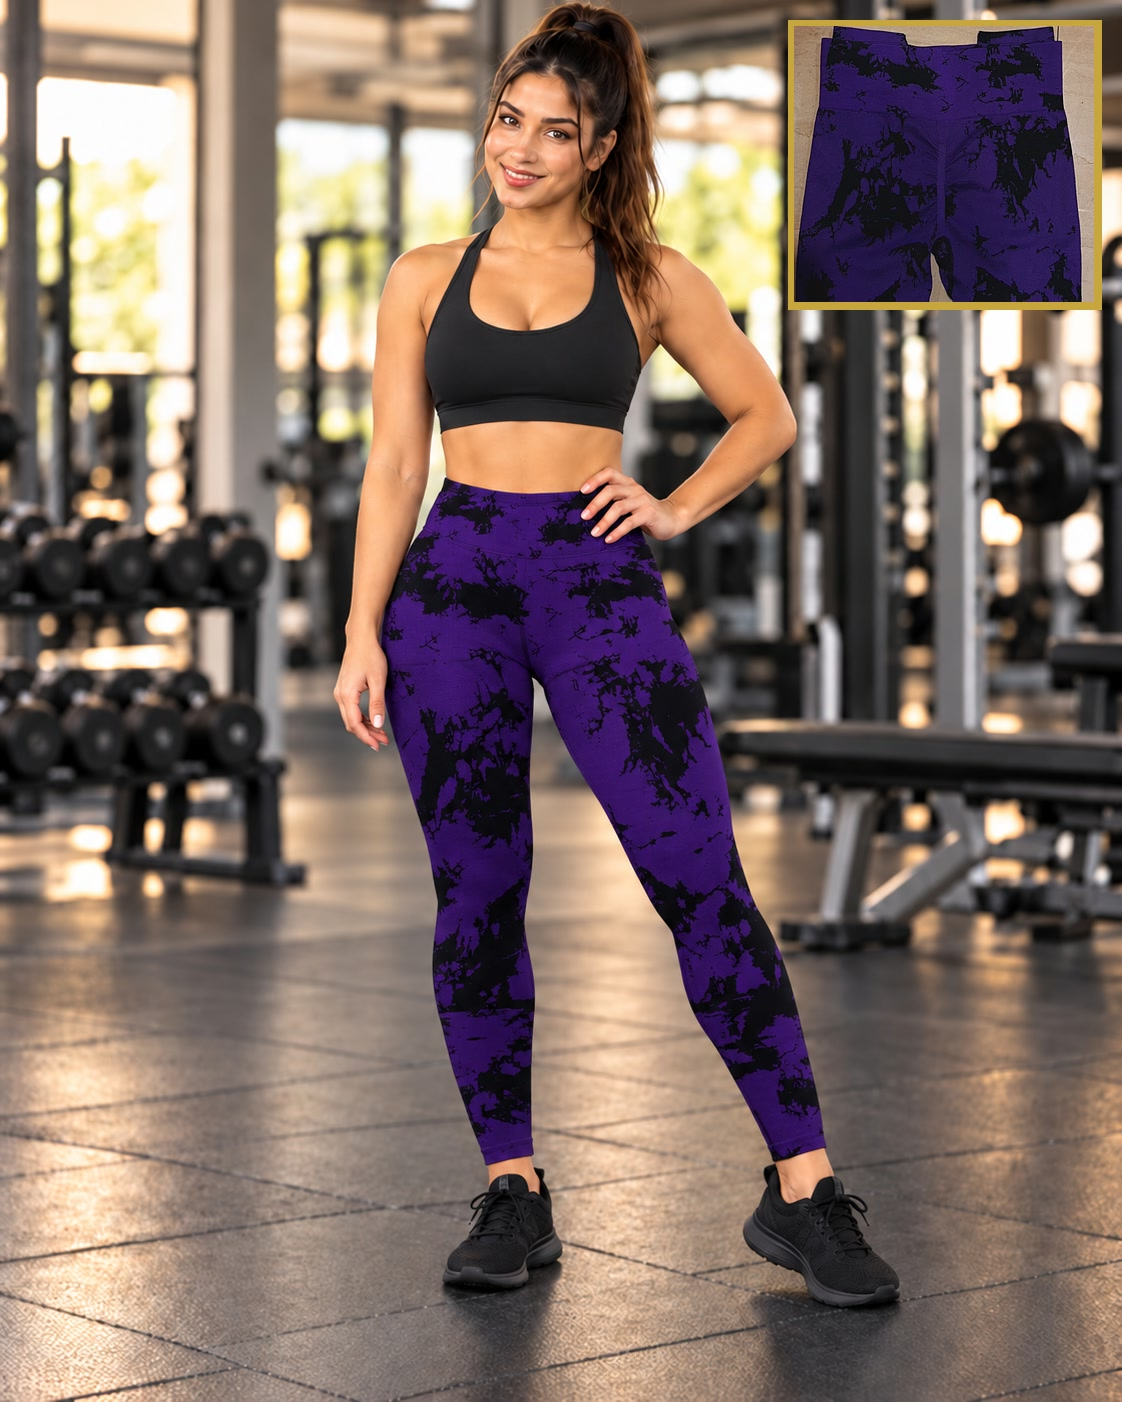
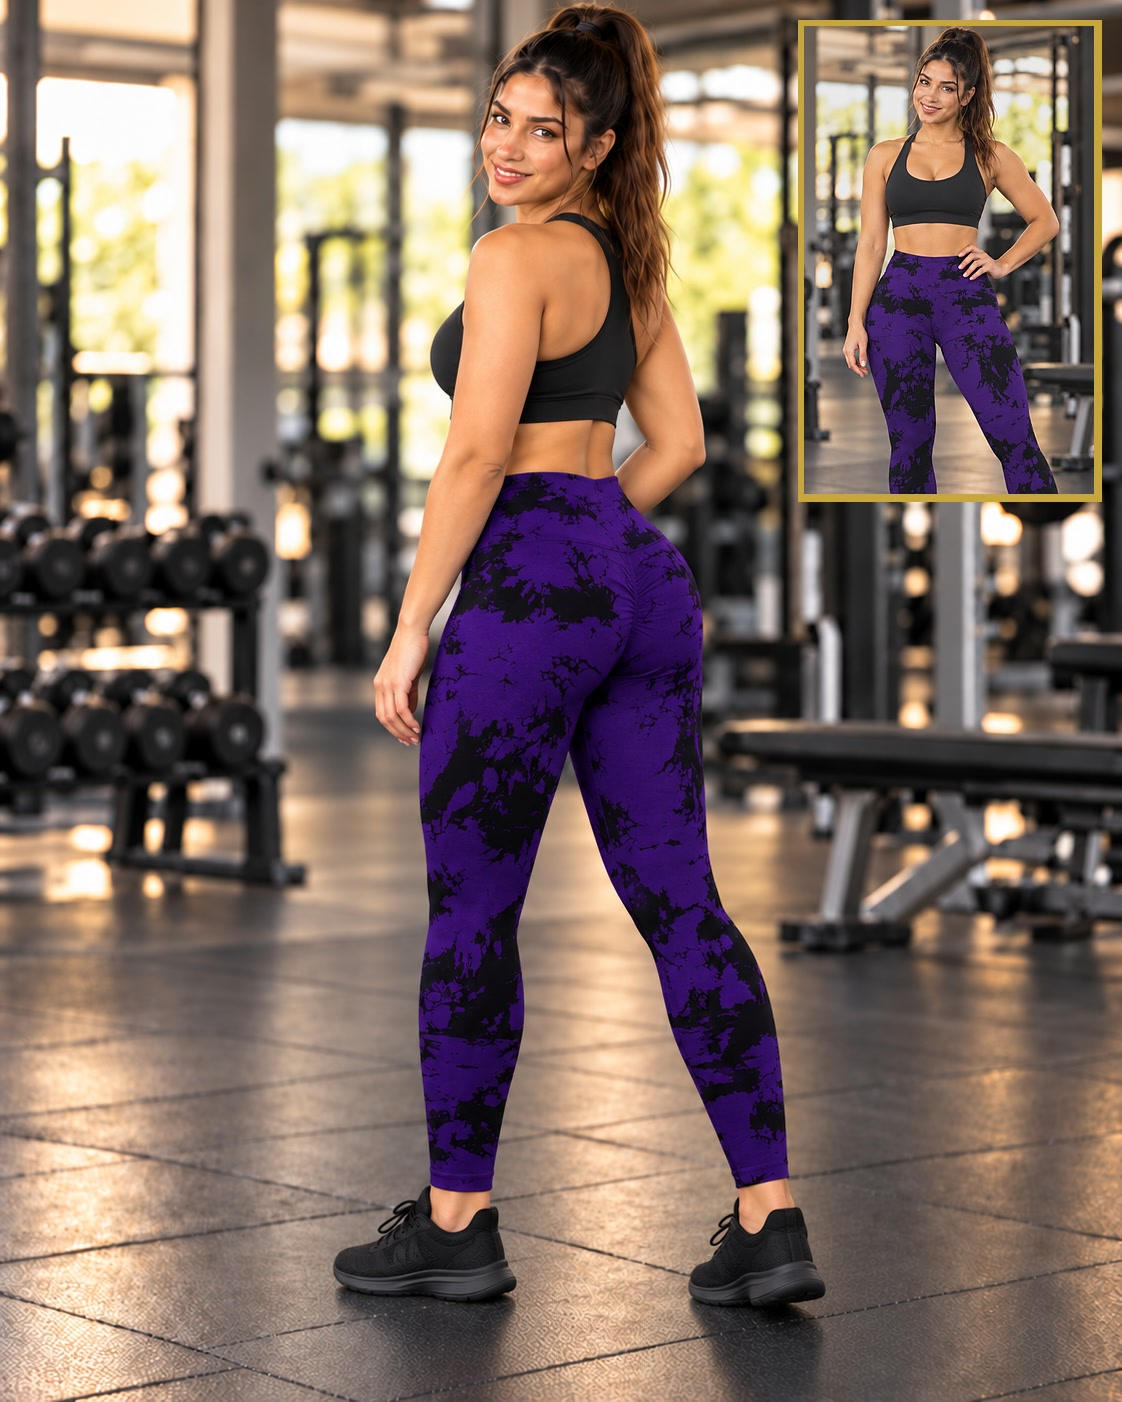
Tienda: calza morada con modelo de espaldas y cuadro de frente
Claude-Session: https://claude.ai/code/session_013ZgZPSRHEDhMsqmx8Km842

diff --git a/tienda.html b/tienda.html
@@ -221,7 +221,7 @@ function hoyISO(){ return new Intl.DateTimeFormat("en-CA", { timeZone:"America/S
 function ahoraTxt(){ var f = new Intl.DateTimeFormat("sv-SE", { timeZone:"America/Santiago", year:"numeric", month:"2-digit", day:"2-digit", hour:"2-digit", minute:"2-digit" }).format(new Date()); return f.replace("T", " ").slice(0, 16); }
 function normTxt(s){ return String(s || "").toUpperCase().normalize("NFD").replace(/[̀-ͯ]/g, ""); }
 /* Al cambiar una foto en img/tienda/ (mismo nombre), subir FOTO_V para que los teléfonos no muestren la antigua. */
-var FOTO_V = "26";
+var FOTO_V = "27";
 function fotoUrl(f){ return f ? f + (f.indexOf("?") < 0 ? "?v=" + FOTO_V : "") : ""; }
 function iconoCat(c){ var x = CATS.filter(function(k){ return k[0] === c; })[0]; return x ? x[1] : "📦"; }
 function toast(t, ms){ var el = $("toast"); el.textContent = t; el.style.display = "block"; clearTimeout(toast.t); toast.t = setTimeout(function(){ el.style.display = "none"; }, ms || 2600); }
@@ -303,7 +303,7 @@ setInterval(function(){ if(pend.length) enviarPendientes(); }, 30000);
    el computador"): los datos se vuelven a pedir a la planilla cada 30 s mientras la página está a la vista (sin una ficha
    abierta), y cada minuto se revisa tienda-version.txt: si hay una versión nueva de la página, se recarga sola.
    Cada vez que se cambie tienda.html, subir TIENDA_VERSION y tienda-version.txt juntos (AAAAMMDDNN). */
-var TIENDA_VERSION = "2026102518";
+var TIENDA_VERSION = "2026102519";
 setInterval(function(){ if(clave && !document.hidden && $("velo").hidden && !$("app").hidden) enviarPendientes().then(function(){ cargar(true); }); }, 30000);
 function revisarVersion(){
  fetch("tienda-version.txt?t=" + Date.now(), { cache:"no-store" }).then(function(r){ return r.ok ? r.text() : ""; }).then(function(v){

diff --git a/CLAUDE.md b/CLAUDE.md
@@ -1533,7 +1533,7 @@ Versión 23). Celular y compu ven el mismo inventario.
   guardado como «Ropa deportiva» se muestra como «Ropa mujer»; en los enlaces usar `cat=Ropa%20mujer` o `cat=Ropa%20hombre`).
   Ropa deportiva de mujer (24-10-2026): cada talla y color es un producto aparte con su código 200… (la ropa no trae
   código). Conjunto Gym Work 3 piezas blanco/negro M ($13.609 → $22.000; foto de espaldas con la modelo + cuadro con la foto original del conjunto, en 900 px de alto), Short scrunch M.Minute negro S (foto `img/tienda/short-scrunch-negro.jpg`, con modelo + cuadro de espalda) y azul oscuro S (foto `img/tienda/short-scrunch-azul.jpg`, igual)
-  (pack de 2 por $7.512 → $3.756 c/u, venta $9.000), Conjunto Easithlete negro M ($8.568; foto con la modelo + cuadro de la espalda, 900 px), Leggings Yefecy negro M ($11.001 → $16.000; foto con modelo de frente + cuadro de espalda), Conjunto Easithlete a $15.000; short negro a $10.000. Ropa de hombre: Polera «Stronger every day» negra M ($7.204 → $13.000; modelo hombre de espaldas + cuadro de frente), Polera Rise LYT raglán negra M ($6.701 → $14.000; modelo hombre de espaldas + cuadro de frente; adelante el diseño de espinas ancho; atrás uno distinto, grande, con alas arriba y una punta larga por la columna), Polera Gym Rark «Never give up» negra M ($7.793 → $15.000; modelo de espaldas + cuadro de frente con el toro), Polera de compresión Gym Rark negra M ($7.051 → $13.000; modelo de espaldas: cuernos blancos grandes + franja roja larga por la columna; cuadro con el mismo modelo de frente con «AGILITY», hecho en ChatGPT), Polera «This is my therapy» negra L ($7.323 → $14.000; modelo de espaldas + cuadro de frente; adelante lleva el toro chico en el pecho izquierdo), Musculosa «//Strength» blanca y negra M ($8.000 → $11.000; foto con modelo hombre de ChatGPT), Musculosa «Boston EST.1997» gris M ($8.000 → $12.000), Musculosa Batman blanca M ($8.000 → $11.000). Ropa mujer: Polera Cherry rosada crop S ($3.000 → $6.000) y Polera tie-dye negra y blanca crop S ($2.000 → $5.000), Calza flare camuflaje S-M ($7.000 → $10.000; modelo con el camuflaje verde oliva real + cuadro de espalda), Calza leopardo con malla S ($8.000 → $12.000; modelo de frente + cuadro de espalda hecho en ChatGPT), Calza tie-dye azul y amarilla M ($8.000 → $11.000; foto con modelo de lado + cuadro de frente); fotos con modelo hechas por la dueña en ChatGPT. Suplementos en pausa.
+  (pack de 2 por $7.512 → $3.756 c/u, venta $9.000), Conjunto Easithlete negro M ($8.568; foto con la modelo + cuadro de la espalda, 900 px), Leggings Yefecy negro M ($11.001 → $16.000; foto con modelo de frente + cuadro de espalda), Conjunto Easithlete a $15.000; short negro a $10.000. Ropa de hombre: Polera «Stronger every day» negra M ($7.204 → $13.000; modelo hombre de espaldas + cuadro de frente), Polera Rise LYT raglán negra M ($6.701 → $14.000; modelo hombre de espaldas + cuadro de frente; adelante el diseño de espinas ancho; atrás uno distinto, grande, con alas arriba y una punta larga por la columna), Polera Gym Rark «Never give up» negra M ($7.793 → $15.000; modelo de espaldas + cuadro de frente con el toro), Polera de compresión Gym Rark negra M ($7.051 → $13.000; modelo de espaldas: cuernos blancos grandes + franja roja larga por la columna; cuadro con el mismo modelo de frente con «AGILITY», hecho en ChatGPT), Polera «This is my therapy» negra L ($7.323 → $14.000; modelo de espaldas + cuadro de frente; adelante lleva el toro chico en el pecho izquierdo), Musculosa «//Strength» blanca y negra M ($8.000 → $11.000; foto con modelo hombre de ChatGPT), Musculosa «Boston EST.1997» gris M ($8.000 → $12.000), Musculosa Batman blanca M ($8.000 → $11.000). Ropa mujer: Polera Cherry rosada crop S ($3.000 → $6.000) y Polera tie-dye negra y blanca crop S ($2.000 → $5.000), Calza flare camuflaje S-M ($7.000 → $10.000; modelo con el camuflaje verde oliva real + cuadro de espalda), Calza leopardo con malla S ($8.000 → $12.000; modelo de frente + cuadro de espalda hecho en ChatGPT), Calza tie-dye azul y amarilla M ($8.000 → $11.000; foto con modelo de lado + cuadro de frente), Calza tie-dye morada y negra con frunce (foto `img/tienda/calza-tie-dye-morada-negra.jpg`: modelo de espaldas + cuadro de frente; falta que la dueña diga talla, costo y precio); fotos con modelo hechas por la dueña en ChatGPT. Suplementos en pausa.
   Bebestibles en pausa hasta que llegue más mercadería. Un enlace `?nuevo=1` con un código que ya existe abre ese producto (aunque cambie el nombre). **En los enlaces, todo carácter no ASCII va codificado (á → %C3%A1)**: el de la polera Rise LYT llevaba «raglán» sin codificar, el chat volvió a codificar el enlace y el producto quedó «Polera%20Rise…» en Bebestibles; desde el 24-10-2026 `sinPorcentajes` decodifica los parámetros y `repararCodificados` arregla y vuelve a guardar los nombres que quedaron con %XX.
   **Todo se actualiza solo (24-10-2026, la dueña: "si hago una modificación en el celular, que se cambie igual en el
   computador"):** los datos se piden a la planilla cada 30 s si la página está a la vista y sin ficha abierta, y cada
